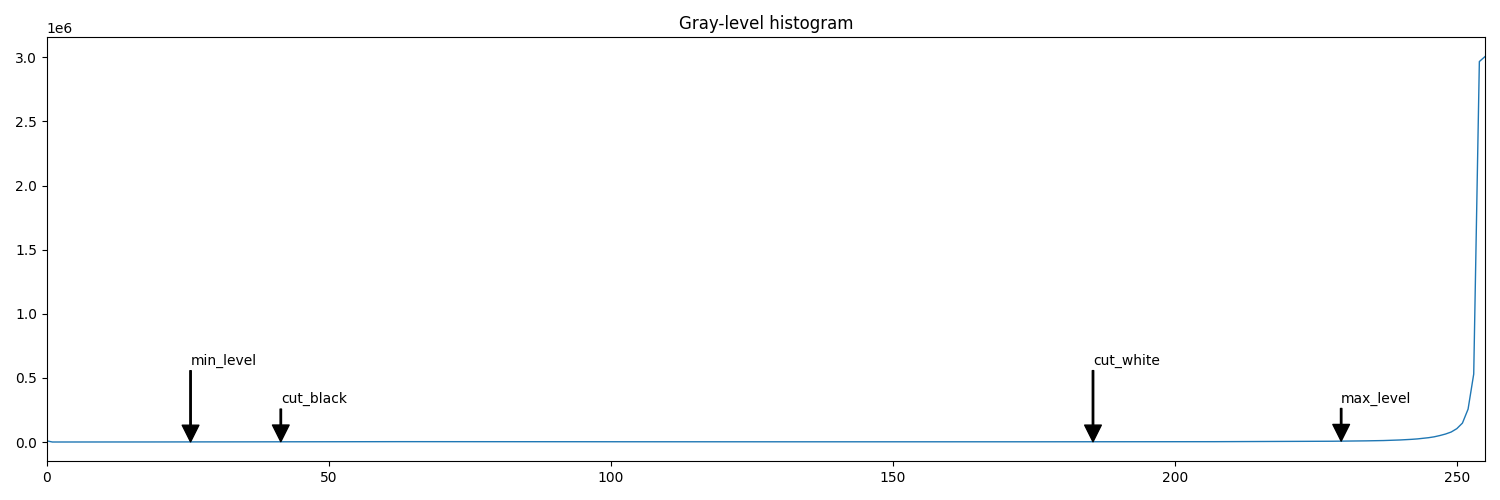
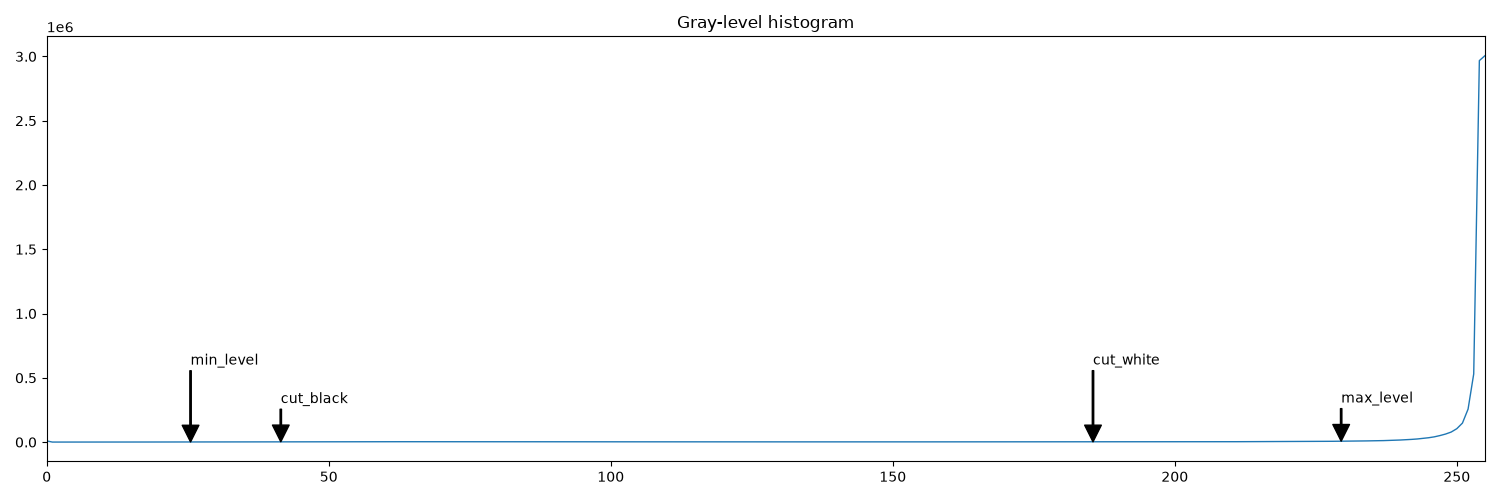
Update reference image

diff --git a/scan_to_paperless/__init__.py b/scan_to_paperless/__init__.py
@@ -2,13 +2,16 @@
 
 import os
 import pathlib
-from typing import cast
+from typing import TYPE_CHECKING, cast
 
 from anyio import Path
 from deepmerge.merger import Merger
 from ruamel.yaml.main import YAML
 
 from scan_to_paperless import config as schema
+
+if TYPE_CHECKING:
+    from deepmerge.strategy import StrategyListInitable
 
 CONFIG_FILENAME = "scan-to-paperless.yaml"
 